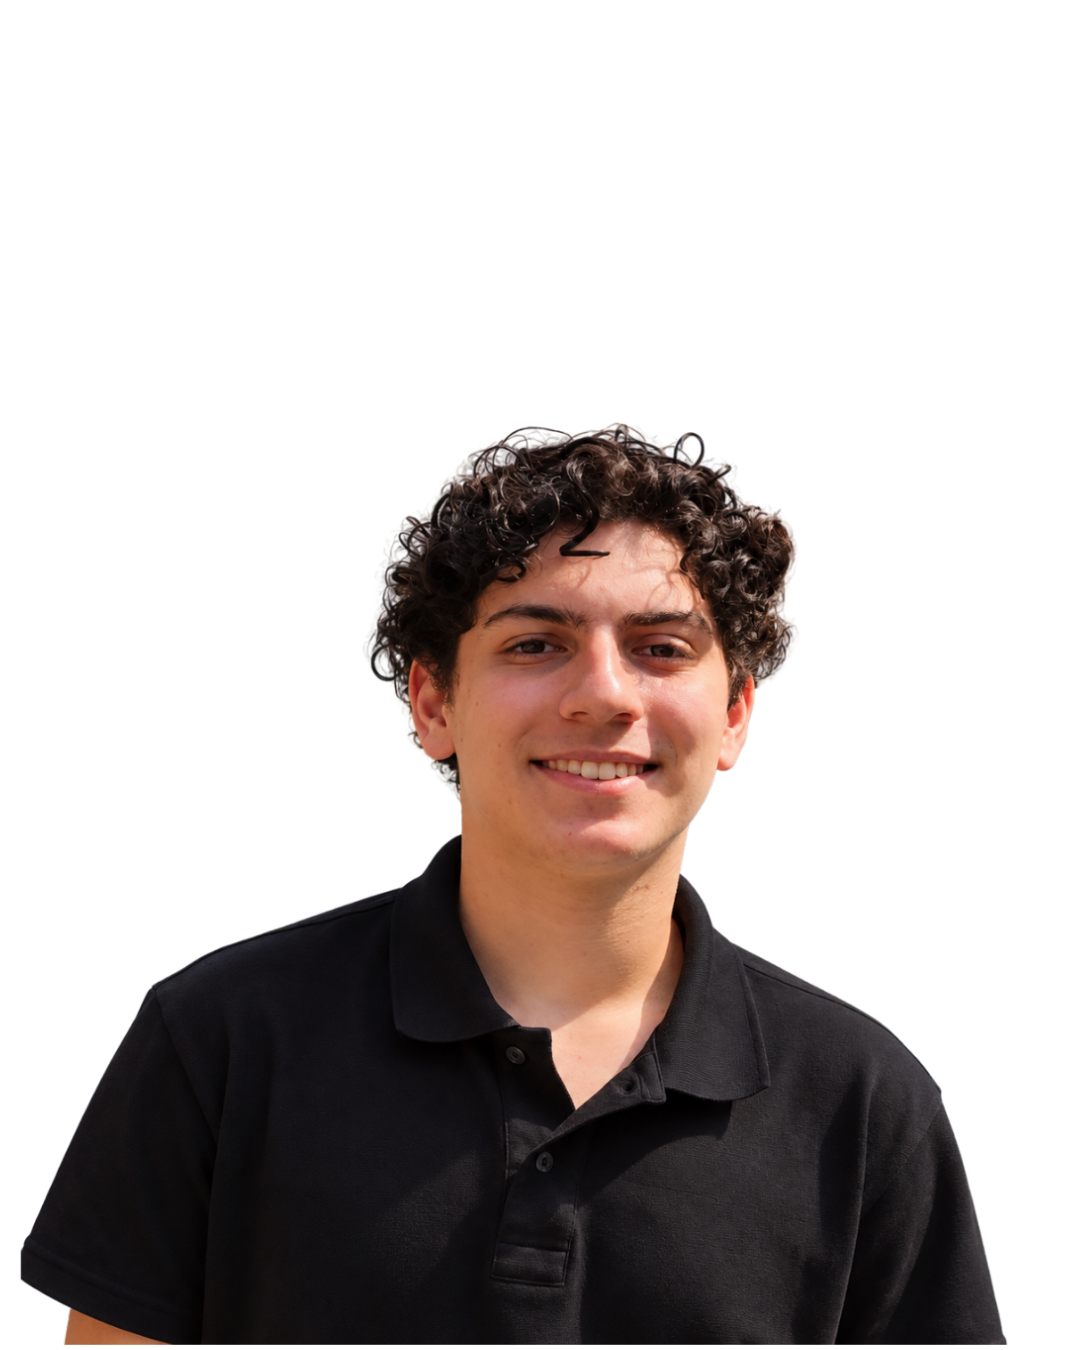
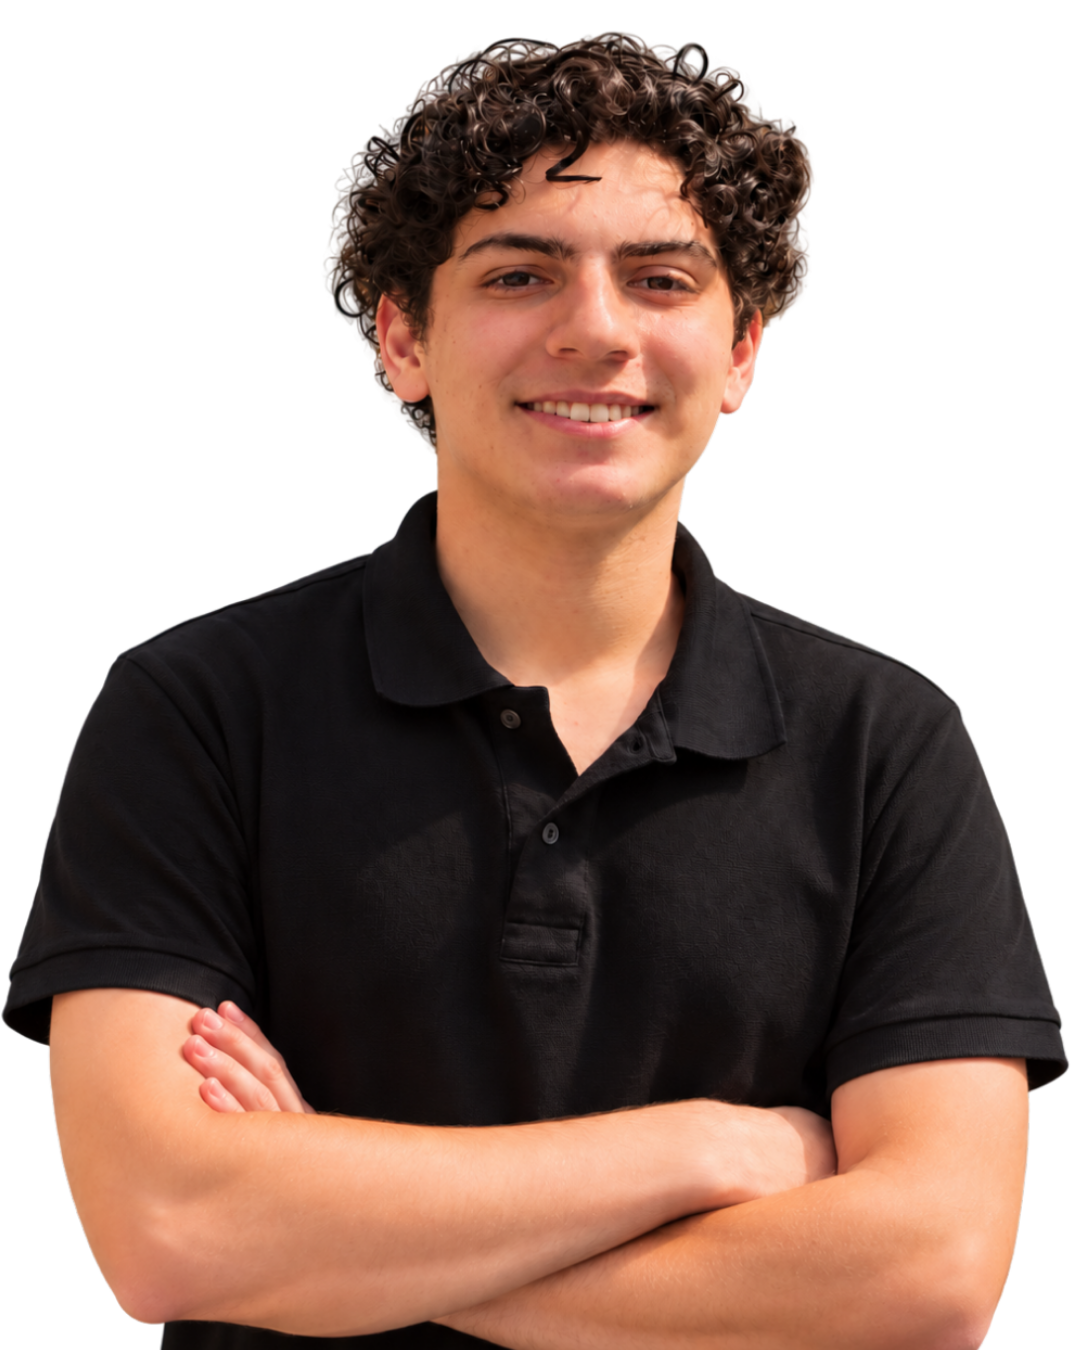
upload 4

diff --git a/src/data/team.ts b/src/data/team.ts
@@ -13,8 +13,8 @@ export const team: Member[] = [
     id: "01",
     name: "Davi Rabelo",
     initials: "DR",
-    specialty: null,
-    photo: "davi-rabelo.png",
+    specialty: "Technical Writer",
+    photo: "davi-rabelo.",
     github: "https://github.com/davirabelo17296-oss",
     linkedin: "https://www.linkedin.com/in/davi-rabelo-1b9285407/",
   },
@@ -22,7 +22,7 @@ export const team: Member[] = [
     id: "02",
     name: "Enzo Mitev",
     initials: "EM",
-    specialty: null,
+    specialty: "Video Editor • 3D Designer",
     photo: "enzo-mitev.png",
     github: "https://github.com/Mittzinn",
     linkedin: "https://www.linkedin.com/in/enzo-mitev-9929803b6/",
